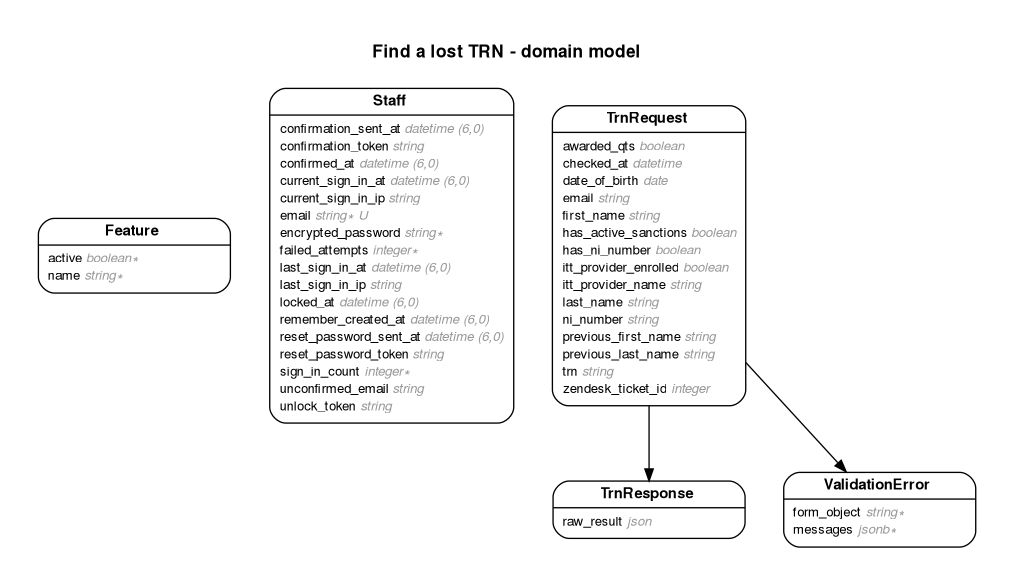
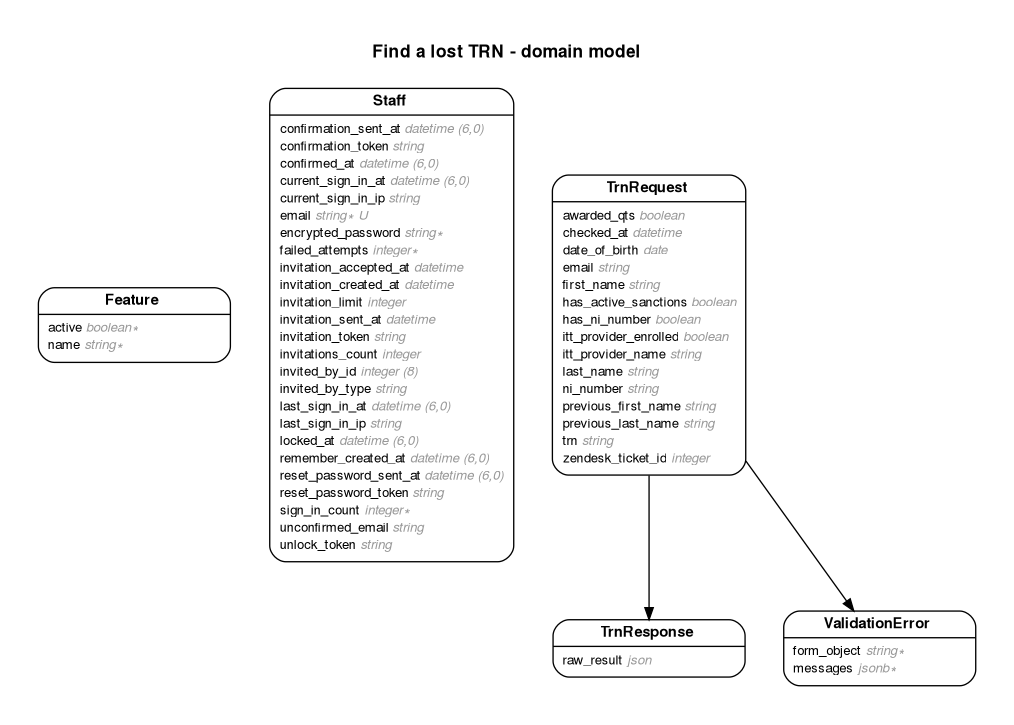
Make staff users invitable
See https://github.com/DFE-Digital/apply-for-qualified-teacher-status/pull/143/commits/f60e9ffcec2706905a892936829486498db588c1

diff --git a/app/models/staff.rb b/app/models/staff.rb
@@ -11,6 +11,13 @@
 #  email                  :string           default(""), not null
 #  encrypted_password     :string           default(""), not null
 #  failed_attempts        :integer          default(0), not null
+#  invitation_accepted_at :datetime
+#  invitation_created_at  :datetime
+#  invitation_limit       :integer
+#  invitation_sent_at     :datetime
+#  invitation_token       :string
+#  invitations_count      :integer          default(0)
+#  invited_by_type        :string
 #  last_sign_in_at        :datetime
 #  last_sign_in_ip        :string
 #  locked_at              :datetime
@@ -22,11 +29,15 @@
 #  unlock_token           :string
 #  created_at             :datetime         not null
 #  updated_at             :datetime         not null
+#  invited_by_id          :bigint
 #
 # Indexes
 #
 #  index_staff_on_confirmation_token    (confirmation_token) UNIQUE
 #  index_staff_on_email                 (email) UNIQUE
+#  index_staff_on_invitation_token      (invitation_token) UNIQUE
+#  index_staff_on_invited_by            (invited_by_type,invited_by_id)
+#  index_staff_on_invited_by_id         (invited_by_id)
 #  index_staff_on_reset_password_token  (reset_password_token) UNIQUE
 #  index_staff_on_unlock_token          (unlock_token) UNIQUE
 #
@@ -35,11 +46,12 @@ class Staff < ApplicationRecord
   # :confirmable, :lockable, :timeoutable, :trackable and :omniauthable
   devise :confirmable,
          :database_authenticatable,
+         :invitable,
          :lockable,
          :recoverable,
          :rememberable,
-         :trackable,
          :timeoutable,
+         :trackable,
          :validatable
 
   def send_devise_notification(notification, *args)

diff --git a/db/schema.rb b/db/schema.rb
@@ -10,7 +10,7 @@
 #
 # It's strongly recommended that you check this file into your version control system.
 
-ActiveRecord::Schema[7.0].define(version: 2022_07_29_140859) do
+ActiveRecord::Schema[7.0].define(version: 2022_07_29_143332) do
   # These are extensions that must be enabled in order to support this database
   enable_extension "plpgsql"
 
@@ -42,8 +42,19 @@ ActiveRecord::Schema[7.0].define(version: 2022_07_29_140859) do
     t.datetime "locked_at"
     t.datetime "created_at", null: false
     t.datetime "updated_at", null: false
+    t.string "invitation_token"
+    t.datetime "invitation_created_at", precision: nil
+    t.datetime "invitation_sent_at", precision: nil
+    t.datetime "invitation_accepted_at", precision: nil
+    t.integer "invitation_limit"
+    t.string "invited_by_type"
+    t.bigint "invited_by_id"
+    t.integer "invitations_count", default: 0
     t.index ["confirmation_token"], name: "index_staff_on_confirmation_token", unique: true
     t.index ["email"], name: "index_staff_on_email", unique: true
+    t.index ["invitation_token"], name: "index_staff_on_invitation_token", unique: true
+    t.index ["invited_by_id"], name: "index_staff_on_invited_by_id"
+    t.index ["invited_by_type", "invited_by_id"], name: "index_staff_on_invited_by"
     t.index ["reset_password_token"], name: "index_staff_on_reset_password_token", unique: true
     t.index ["unlock_token"], name: "index_staff_on_unlock_token", unique: true
   end

diff --git a/db/migrate/20220729143332_devise_invitable_add_to_staff.rb b/db/migrate/20220729143332_devise_invitable_add_to_staff.rb
@@ -1,0 +1,27 @@
+class DeviseInvitableAddToStaff < ActiveRecord::Migration[7.0]
+  def up
+    change_table :staff, bulk: true do |t|
+      t.string :invitation_token
+      t.datetime :invitation_created_at
+      t.datetime :invitation_sent_at
+      t.datetime :invitation_accepted_at
+      t.integer :invitation_limit
+      t.references :invited_by, polymorphic: true
+      t.integer :invitations_count, default: 0
+      t.index :invitation_token, unique: true # for invitable
+      t.index :invited_by_id
+    end
+  end
+
+  def down
+    change_table :staff, bulk: true do |t|
+      t.remove_references :invited_by, polymorphic: true
+      t.remove :invitations_count,
+               :invitation_limit,
+               :invitation_sent_at,
+               :invitation_accepted_at,
+               :invitation_token,
+               :invitation_created_at
+    end
+  end
+end
